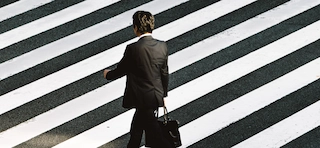
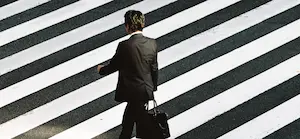
test img

diff --git a/index.html b/index.html
@@ -47,19 +47,18 @@
                     aria-label="Slide 3"></button>
             </div>
             <div class="carousel-inner">
-                <picture class="carousel-item active">
+                <div class="carousel-item active">
                     <!--class h-100 (height: 100%) ajouter à img pour height-->
                     <img class="d-block w-100"
                         srcset="
-                        ./assets/images/slider/ryoji-iwata-320w.webp 320w,
-                        ./assets/images/slider/ryoji-iwata-768w.webp 768w,
+                        ./assets/images/slider/ryoji-iwata-300w.webp 300w,
                         ./assets/images/slider/ryoji-iwata-1140w.webp 1140w,
-                        ./assets/images/slider/ryoji-iwata-1440w.webp 1440w,
+                        ./assets/images/slider/ryoji-iwata-1580w.webp 1580w,
                         ./assets/images/slider/ryoji-iwata-1920w.webp 1920w"
-                        sizes="100vw"
+                        sizes="(max-width: 1200px) 1140px, (max-width: 1919px) 1540px, 1920px"
                         src="./assets/images/slider/ryoji-iwata-1920w.webp"
                         alt="homme qui marche sur un passage piéton"/>
-                </picture>
+                </div>
                 <div class="carousel-item">
                     <img class="d-block w-100 " 
                     srcset="
@@ -95,17 +94,16 @@
             </button>
         </div>
         <section id="about">
-            <picture class="picture left">
+            <div class="picture left">
                 <img 
                 srcset="
-                ./assets/images/nina-400w.webp 400w,
-                ./assets/images/nina-468w.webp 468w,
-                ./assets/images/nina-550w.webp 550w"
-                sizes="(max-width: 1920px) 550px, (min-width: 650px) 468px, 400px"
+                ./assets/images/nina-256w.webp 256w,
+                ./assets/images/nina-560w.webp 560w,
+                ./assets/images/nina-890w.webp 890w"
+                sizes="(min-width: 650px) 468px, 256px"
                 src="./assets/images/nina-400w.webp"
-                loading="lazy"
                 alt="Nina"/>
-            </picture>
+            </div>
             <div id="about-me">
                 <h2 class="about-me__title">A propos de moi</h2>
                 <p class="about-me__introduction">
